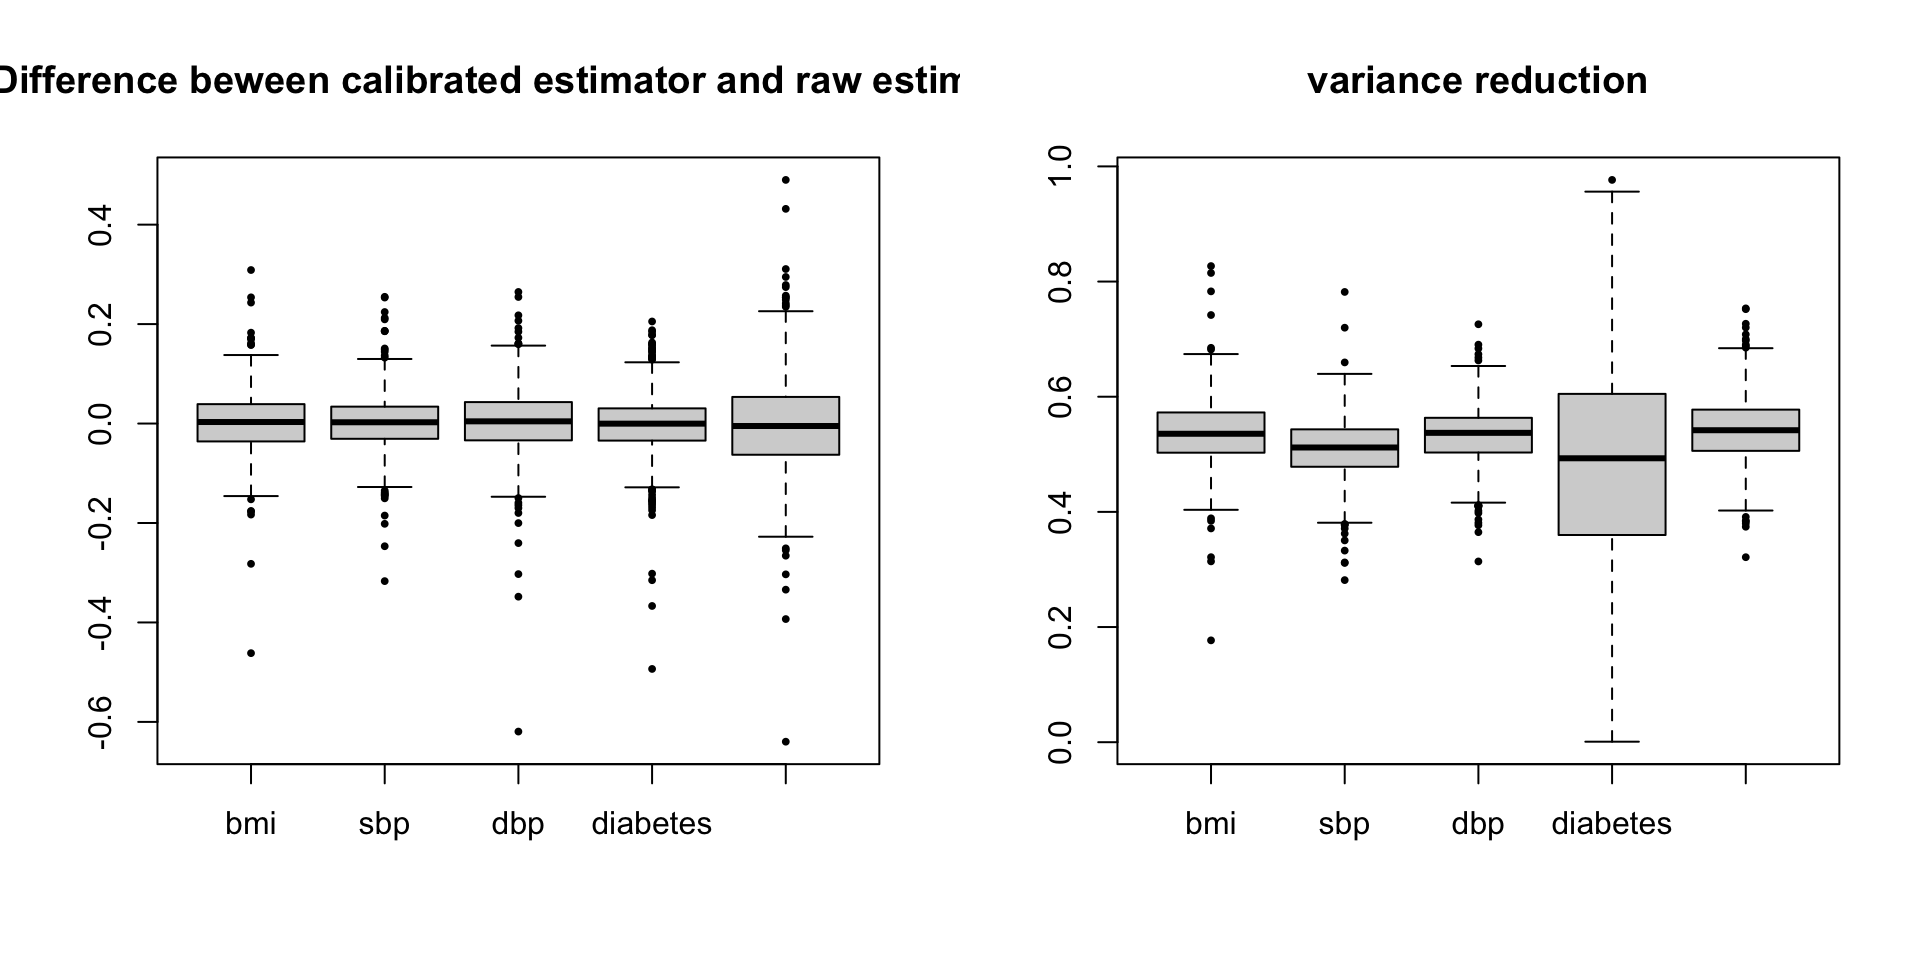
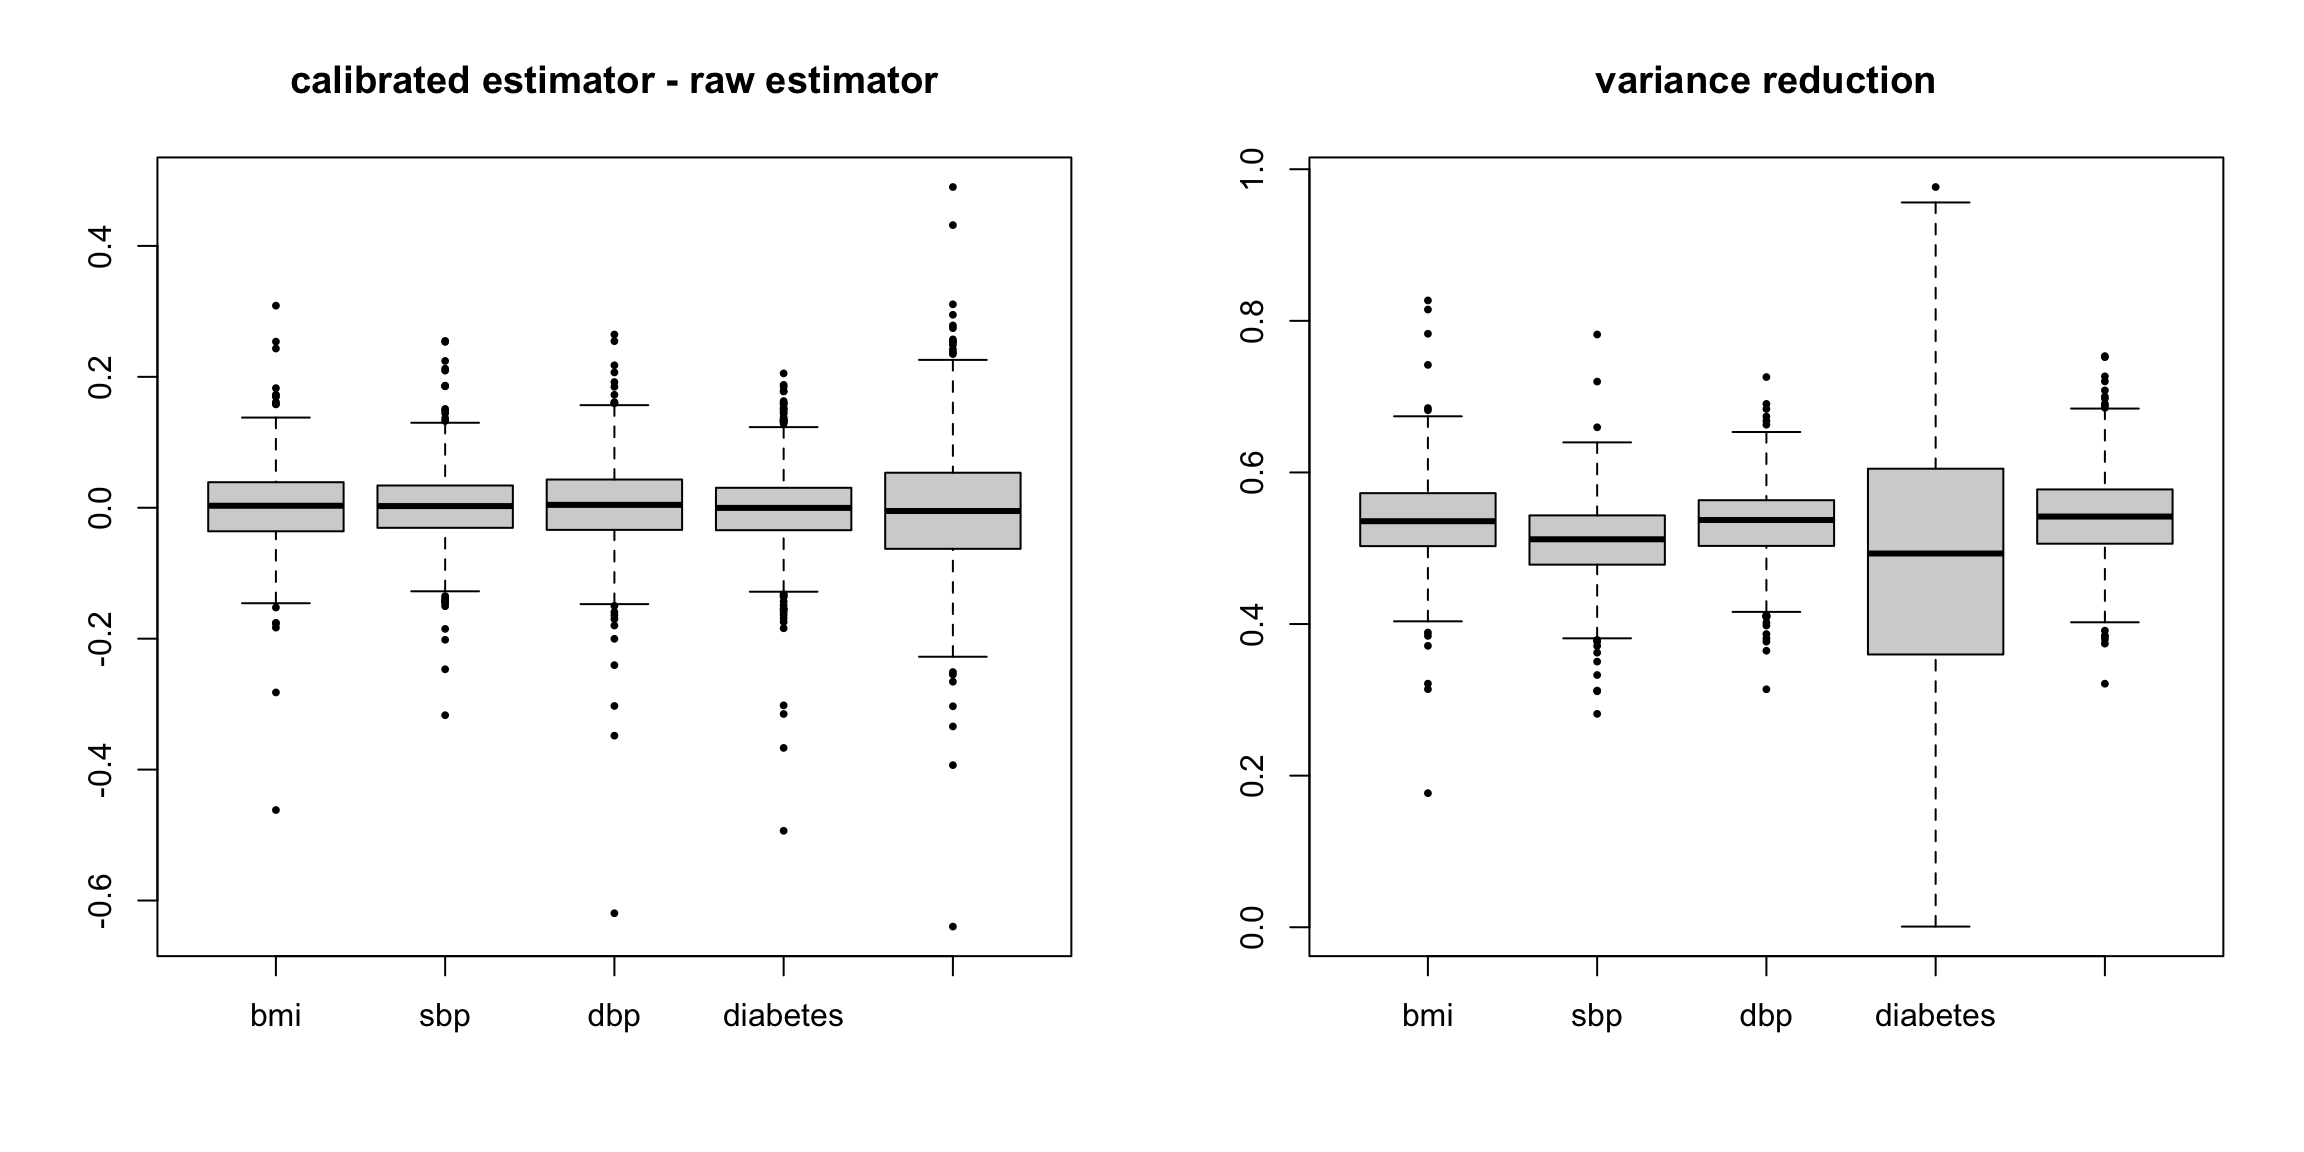
Build site.

diff --git a/docs/ukb_trait_calibration_trio.html b/docs/ukb_trait_calibration_trio.html
@@ -475,16 +475,16 @@ This reproducible <a href="http://rmarkdown.rstudio.com">R Markdown</a> analysis
 <div class="panel panel-default">
 <div class="panel-heading">
 <p class="panel-title">
-<a data-toggle="collapse" data-parent="#workflowr-checks" href="#strongRepositoryversionstrongahrefhttpsgithubcomyunqiyang0215simulationcalibratedmrtree0873bdcff7e5ced15113ee97bb61e4047d23b6c4targetblank0873bdca"> <span class="glyphicon glyphicon-ok text-success" aria-hidden="true"></span> <strong>Repository version:</strong> <a href="https://github.com/yunqiyang0215/simulation-calibrated-mr/tree/0873bdcff7e5ced15113ee97bb61e4047d23b6c4" target="_blank">0873bdc</a> </a>
+<a data-toggle="collapse" data-parent="#workflowr-checks" href="#strongRepositoryversionstrongahrefhttpsgithubcomyunqiyang0215simulationcalibratedmrtree910d923933d7cf9a698ffd8c4b4f9748c9d47e7btargetblank910d923a"> <span class="glyphicon glyphicon-ok text-success" aria-hidden="true"></span> <strong>Repository version:</strong> <a href="https://github.com/yunqiyang0215/simulation-calibrated-mr/tree/910d923933d7cf9a698ffd8c4b4f9748c9d47e7b" target="_blank">910d923</a> </a>
 </p>
 </div>
[2 lines of base64/hex data omitted]
 <div class="panel-body">
 <p>
 Great! You are using Git for version control. Tracking code development and connecting the code version to the results is critical for reproducibility.
 </p>
 <p>
-The results in this page were generated with repository version <a href="https://github.com/yunqiyang0215/simulation-calibrated-mr/tree/0873bdcff7e5ced15113ee97bb61e4047d23b6c4" target="_blank">0873bdc</a>. See the <em>Past versions</em> tab to see a history of the changes made to the R Markdown and HTML files.
+The results in this page were generated with repository version <a href="https://github.com/yunqiyang0215/simulation-calibrated-mr/tree/910d923933d7cf9a698ffd8c4b4f9748c9d47e7b" target="_blank">910d923</a>. See the <em>Past versions</em> tab to see a history of the changes made to the R Markdown and HTML files.
 </p>
 <p>
 Note that you need to be careful to ensure that all relevant files for the analysis have been committed to Git prior to generating the results (you can use <code>wflow_publish</code> or <code>wflow_git_commit</code>). workflowr only checks the R Markdown file, but you know if there are other scripts or data files that it depends on. Below is the status of the Git repository when the results were generated:
@@ -492,6 +492,7 @@ Note that you need to be careful to ensure that all relevant files for the analy
 <pre><code>
 Ignored files:
     Ignored:    .Rproj.user/
+    Ignored:    analysis/figure/
 
 </code></pre>
 <p>
@@ -530,6 +531,40 @@ Message
 </tr>
 </thead>
 <tbody>
+<tr>
+<td>
+Rmd
+</td>
+<td>
+<a href="https://github.com/yunqiyang0215/simulation-calibrated-mr/blob/910d923933d7cf9a698ffd8c4b4f9748c9d47e7b/analysis/ukb_trait_calibration_trio.Rmd" target="_blank">910d923</a>
+</td>
+<td>
+yunqiyang0215
+</td>
+<td>
+2024-05-26
+</td>
+<td>
+wflow_publish("analysis/ukb_trait_calibration_trio.Rmd")
+</td>
+</tr>
+<tr>
+<td>
+html
+</td>
+<td>
+<a href="https://rawcdn.githack.com/yunqiyang0215/simulation-calibrated-mr/959fdcf5553b8b306645da311e92c08d2baf5101/docs/ukb_trait_calibration_trio.html" target="_blank">959fdcf</a>
+</td>
+<td>
+yunqiyang0215
+</td>
+<td>
+2024-05-26
+</td>
+<td>
+Build site.
+</td>
+</tr>
 <tr>
 <td>
 Rmd
@@ -1590,6 +1625,17 @@ Date
 <tbody>
 <tr>
 <td>
+<a href="https://github.com/yunqiyang0215/simulation-calibrated-mr/blob/959fdcf5553b8b306645da311e92c08d2baf5101/docs/figure/ukb_trait_calibration_trio.Rmd/unnamed-chunk-32-1.png" target="_blank">959fdcf</a>
+</td>
+<td>
+yunqiyang0215
+</td>
+<td>
+2024-05-26
+</td>
+</tr>
+<tr>
+<td>
 <a href="https://github.com/yunqiyang0215/simulation-calibrated-mr/blob/284afdc50a0c1c045d7a57b1ccbdb625af5198a3/docs/figure/ukb_trait_calibration_trio.Rmd/unnamed-chunk-32-1.png" target="_blank">284afdc</a>
 </td>
 <td>
@@ -1677,6 +1723,17 @@ Date
 <tbody>
 <tr>
 <td>
+<a href="https://github.com/yunqiyang0215/simulation-calibrated-mr/blob/959fdcf5553b8b306645da311e92c08d2baf5101/docs/figure/ukb_trait_calibration_trio.Rmd/unnamed-chunk-35-1.png" target="_blank">959fdcf</a>
+</td>
+<td>
+yunqiyang0215
+</td>
+<td>
+2024-05-26
+</td>
+</tr>
+<tr>
+<td>
 <a href="https://github.com/yunqiyang0215/simulation-calibrated-mr/blob/284afdc50a0c1c045d7a57b1ccbdb625af5198a3/docs/figure/ukb_trait_calibration_trio.Rmd/unnamed-chunk-35-1.png" target="_blank">284afdc</a>
 </td>
 <td>
@@ -1720,13 +1777,50 @@ for (i in 1:length(dat)){
 }</code></pre>
 <pre class="r"><code>diff = sapply(1:5, function(i) dat[[i]]$cali - dat[[i]]$raw)
 vr =  sapply(1:5, function(i) 1 - dat[[i]]$cali.var/dat[[i]]$raw.var)
-colnames(diff) = c(&quot;bmi&quot;, &quot;sbp&quot;, &quot;dbp&quot;, &quot;diabetes&quot;, &quot;education years&quot;)
-colnames(vr) = c(&quot;bmi&quot;, &quot;sbp&quot;, &quot;dbp&quot;, &quot;diabetes&quot;, &quot;education years&quot;)</code></pre>
+colnames(diff) = c(&quot;bmi&quot;, &quot;sbp&quot;, &quot;dbp&quot;, &quot;diabetes&quot;, &quot;education yrs&quot;)
+colnames(vr) = c(&quot;bmi&quot;, &quot;sbp&quot;, &quot;dbp&quot;, &quot;diabetes&quot;, &quot;education yrs&quot;)</code></pre>
 <pre class="r"><code>par(mfrow = c(1,2))
-boxplot(diff, main = &quot;Difference beween calibrated estimator and raw estimator&quot;, 
+boxplot(diff, main = &quot;calibrated estimator - raw estimator&quot;, 
         ylab = &quot;&quot;, names = colnames(diff), pch = 20, cex = 0.6)
 boxplot(vr, main = &quot;variance reduction&quot;,names = colnames(diff), pch = 20, cex = 0.6)</code></pre>
-<p><img src="figure/ukb_trait_calibration_trio.Rmd/unnamed-chunk-40-1.png" width="960" style="display: block; margin: auto;" /></p>
+<p><img src="figure/ukb_trait_calibration_trio.Rmd/unnamed-chunk-40-1.png" width="1152" style="display: block; margin: auto;" /></p>
+<p>
+<button type="button" class="btn btn-default btn-xs btn-workflowr btn-workflowr-fig" data-toggle="collapse" data-target="#fig-unnamed-chunk-40-1">
+Past versions of unnamed-chunk-40-1.png
+</button>
+</p>
+<div id="fig-unnamed-chunk-40-1" class="collapse">
+<div class="table-responsive">
+<table class="table table-condensed table-hover">
+<thead>
+<tr>
+<th>
+Version
+</th>
+<th>
+Author
+</th>
+<th>
+Date
+</th>
+</tr>
+</thead>
+<tbody>
+<tr>
+<td>
+<a href="https://github.com/yunqiyang0215/simulation-calibrated-mr/blob/959fdcf5553b8b306645da311e92c08d2baf5101/docs/figure/ukb_trait_calibration_trio.Rmd/unnamed-chunk-40-1.png" target="_blank">959fdcf</a>
+</td>
+<td>
+yunqiyang0215
+</td>
+<td>
+2024-05-26
+</td>
+</tr>
+</tbody>
+</table>
+</div>
+</div>
 <br>
 <p>
 <button type="button" class="btn btn-default btn-workflowr btn-workflowr-sessioninfo" data-toggle="collapse" data-target="#workflowr-sessioninfo" style="display: block;">
